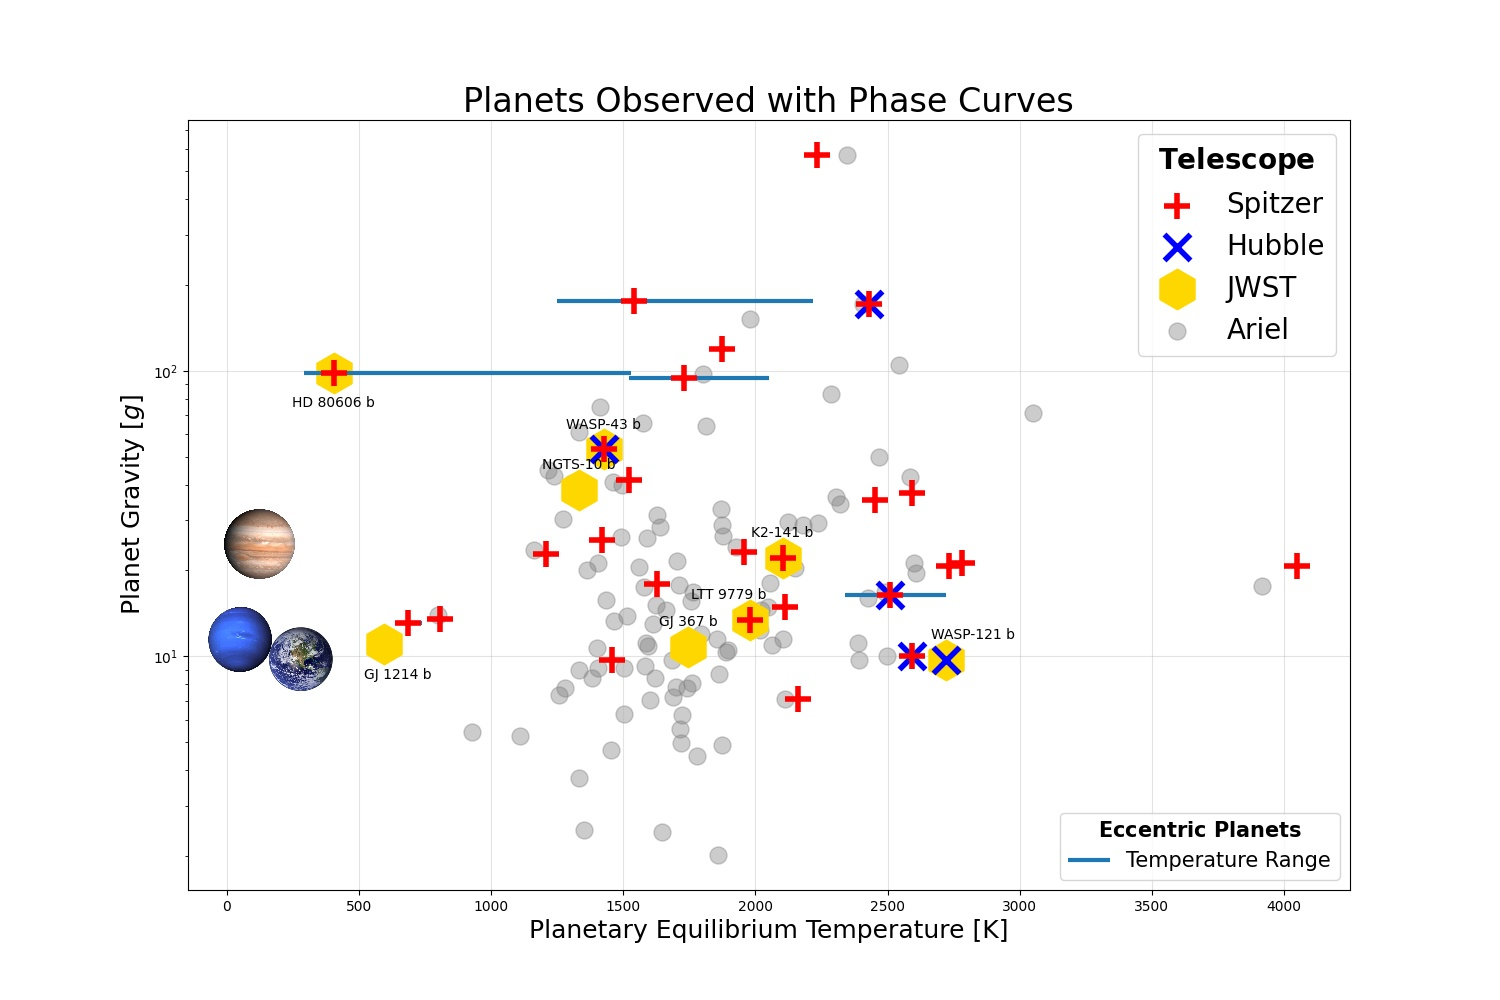
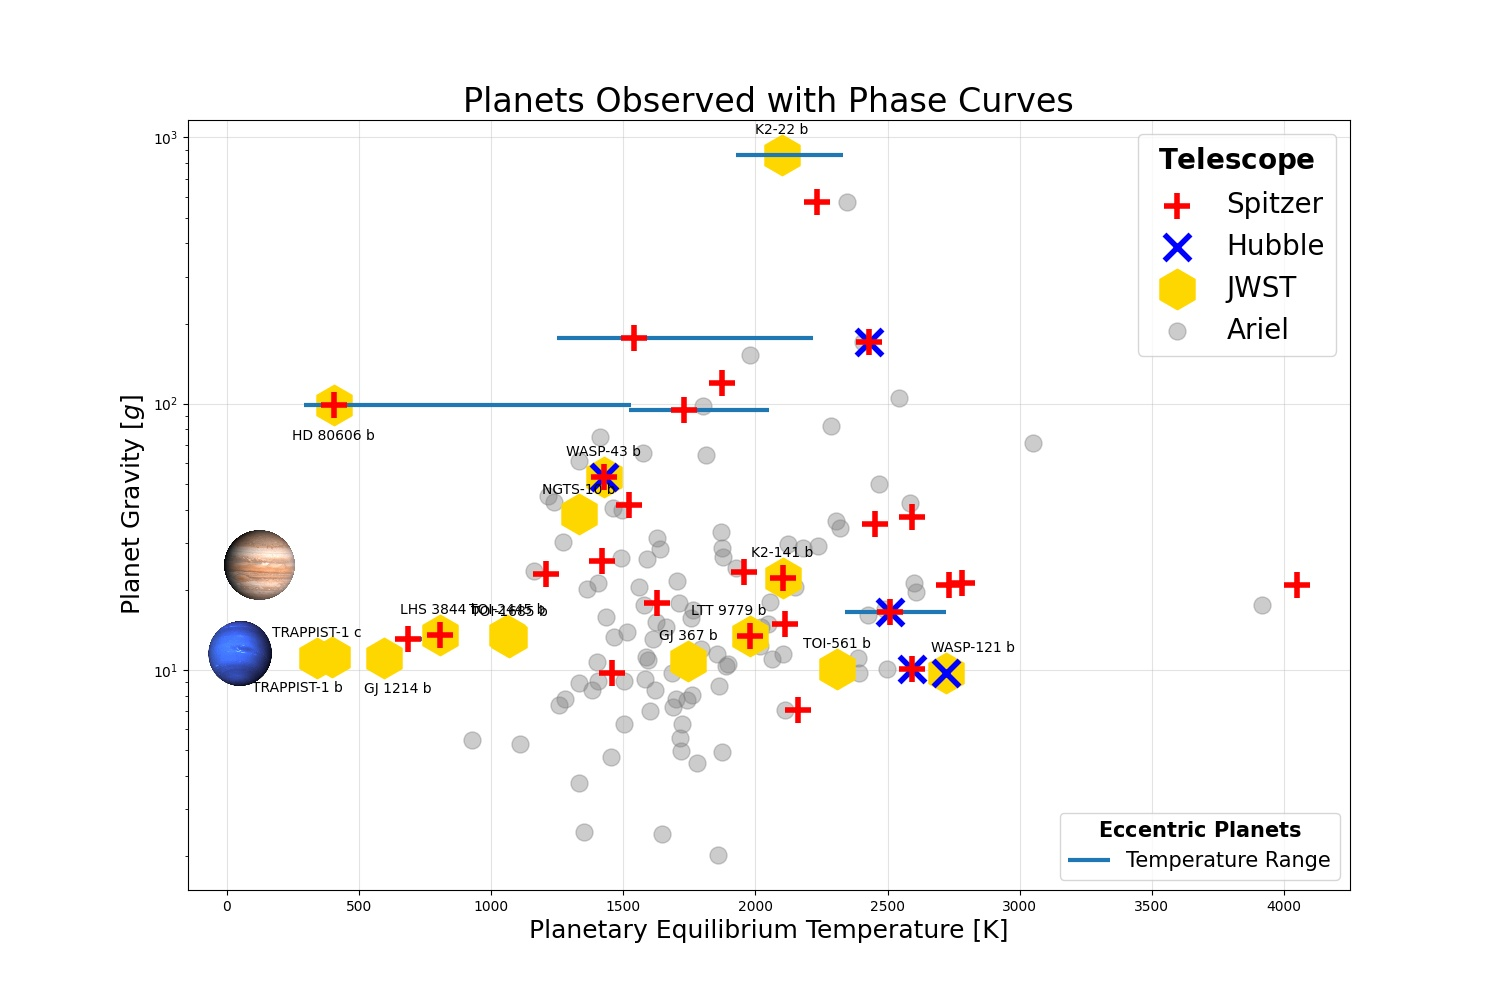
5/27 7:15

diff --git a/phasecurve_plot_cheryl.py b/phasecurve_plot_cheryl.py
@@ -26,7 +26,7 @@ pc_df = results.to_table().to_pandas()
 
 #read in csv file, this file tells us whether each object is
 #observed in any of the three telescope: Hubble,Spitzer,JWST
-telescopes = pd.read_csv(os.path.join(data_dir,'pl_telescope.csv'))
+telescopes = pd.read_csv(os.path.join(data_dir,'pl_telescope-cycle2.csv'))
 
 
 pc_telescope = pd.merge(pc_df, telescopes, how='left', left_on='pl_name', right_on='Planet_name')
@@ -47,7 +47,7 @@ ariel['ESM'] = ESM(1.1*ariel['Planet Temperature [K]'], ariel["Star Temperature 
 
 ariel['pl_g'] = (G*M_jup*ariel["Planet Mass [Mj]"])/ ((r_jup*ariel["Planet Radius [Rj]"])**2)
 
-
+############ this is day/night side constrast with Taylor's data
 selected_sample = jupiter_temp.merge(ariel, on='Planet Name',how = 'left')
 
 
@@ -63,14 +63,107 @@ selected_sample.to_csv(data_dir + 'selected_target.csv')
 
 
 ###############
-from sorting_ariel import *
+#sort according to the shortest orbit and filter out the 10%
+cut_off = 2000
+
+ariel_sort_so = ariel.sort_values('Planet Period [days]')
+cum_time = []
+cum = 0
+for index, row in ariel_sort_so.iterrows():
+    cum += row['Planet Period [days]']
+    cum_time.append(cum)
+
+ariel_sort_so['cumulative days'] = cum_time
+#ariel_sort_so = ariel_sort_so[ariel_sort_so['cumulative days'] < cut_off]
+ariel_sort_so.drop(columns=['Unnamed: 0'])
+ariel_sort_so = ariel_sort_so.reset_index(drop=True)
+ariel_sort_so.index = ariel_sort_so.index + 1
+
+
+
+#sort according to the highest ESM or maybe try with # of terrestrial bins
+ariel_sort_ESM = ariel.sort_values(by = 'ESM',ascending=False)
+cum_time = []
+cum = 0
+for index, row in ariel_sort_ESM.iterrows():
+    cum += row['Planet Period [days]']
+    cum_time.append(cum)
+
+ariel_sort_ESM['cumulative days'] = cum_time
+ariel_sort_ESM = ariel_sort_ESM[ariel_sort_ESM['cumulative days'] < cut_off]
+ariel_sort_ESM.drop(columns=['Unnamed: 0'])
+ariel_sort_ESM = ariel_sort_ESM.reset_index(drop=True)
+ariel_sort_ESM.index = ariel_sort_ESM.index + 1
+
+ariel_sort_ESM.to_csv(data_dir + 'ESM_Ariel_sort.csv')
+
+
+ariel_ESM_100 = ariel_sort_ESM.head(100)
+
+############################################3
+ariel_sort_eclipse_num = ariel.sort_values('Tier 3 Eclipses')
+cum_time = []
+cum = 0
+for index, row in ariel_sort_eclipse_num.iterrows():
+    cum += row['Planet Period [days]']
+    cum_time.append(cum)
+
+ariel_sort_eclipse_num['cumulative days'] = cum_time
+ariel_sort_eclipse_num = ariel_sort_eclipse_num[ariel_sort_eclipse_num['cumulative days'] < cut_off]
+ariel_sort_eclipse_num.drop(columns=['Unnamed: 0'])
+ariel_sort_eclipse_num = ariel_sort_eclipse_num.reset_index(drop=True)
+ariel_sort_eclipse_num.index = ariel_sort_eclipse_num.index + 1
+
+ariel_sort_eclipse_num.to_csv(data_dir + 'Eclipse_Cum.csv')
+
+print('eclipse len',len(ariel_sort_eclipse_num))
+
+
+ariel_eclipse_100 = ariel_sort_eclipse_num.head(100)
+
+######################## rank everything based on tier 3 transits
+
+ariel_sort_transit_num = ariel.sort_values('Tier 3 Transits')
+ariel_transit_100 = ariel_sort_transit_num.head(100)
+
+######### sort out targets with
+overlap_target = pd.merge(ariel_transit_100, ariel_eclipse_100, how = "inner")
+
+
+cum_time = []
+cum = 0
+for index, row in overlap_target.iterrows():
+    cum += row['Transit Duration [s]']
+    cum_time.append(cum)
+
+overlap_target['cumulative transit time [days]'] = cum_time
+overlap_target['cumulative transit time [days]'] = overlap_target['cumulative transit time [days]']/ 86400 * 3 # we account
+#for the based line by multiplying 3
+overlap_target.drop(columns=['Unnamed: 0'])
+overlap_target = overlap_target.reset_index(drop = True)
+overlap_target.index = overlap_target.index + 1
+
+overlap_target_selected = overlap_target[["Planet Name","Tier 3 Eclipses","Tier 3 Transits",
+                                           "Planet Period [days]", "Transit Duration [s]", 'cumulative transit time [days]' ]]
+overlap_target_selected.to_csv(data_dir + 'overlap.csv')
+
+################ sort ariel into different mass range:
+ariel_terrestrial = ariel.loc[ariel['Planet Mass [Mj]'] <= 0.16058]
+ariel_subnep = ariel.loc[(ariel['Planet Mass [Mj]'] >= 0.16058)
+                & (ariel['Planet Mass [Mj]'] <= 0.312251)]
+ariel_nep = ariel.loc[(ariel['Planet Mass [Mj]'] <= 0.624503)
+                & (ariel['Planet Mass [Mj]'] >= 0.312251)]
+ariel_giant = ariel.loc[ariel['Planet Mass [Mj]'] >= 0.624503]
+
+
+
 
 ####################### plotting
 
-#from JWST_Phasecurve_Graph import *
-#from JWST_Phase_Curve_pg import *
-#from JWST_Phasecurve_prj import *
-#from JWST_Ariel_Phasecurve_PG_Ecc import *
+from JWST_Phasecurve_Graph import *
+from JWST_Phase_Curve_pg import *
+from JWST_Phasecurve_prj import *
+from JWST_Ariel_Phasecurve_PG_Ecc import *
 #from JWST_Ariel_Fig3_PR_PP_PT import *
 #from JWST_Ariel_ESM_Period_T import *
 
@@ -82,7 +175,7 @@ from sorting_ariel import *
 #from Ariel_Teq_Rp import *
 #from Ariel_Teq_period import *
 #from Ariel_ESM_Planet_Rank import *
-from Ariel_num_eclipse_rank import *
+#from Ariel_num_eclipse_rank import *
 #from Ariel_ESM_diff import *
 
 

diff --git a/JWST_Phasecurve_prj.py b/JWST_Phasecurve_prj.py
@@ -41,12 +41,40 @@ for x, y, name in zip(pc_telescope.query("JWST == 'Yes'")["pl_eqt"], pc_telescop
                       pc_telescope.query("JWST == 'Yes'")["pl_name"]):
 
     label = name
-    if label == 'K2-141 b':
+
+    if label == 'WASP-121 b':
         plt.annotate(label,  # this is the text
                      (x, y),  # these are the coordinates to position the label
                      textcoords="offset points",  # how to position the text
-                     xytext=(15, 15),  # distance from text to points (x,y)
+                     xytext=(20, 15),  # distance from text to points (x,y)
                      ha='center')  # horizontal alignment can be left, right or center
+    elif label == 'GJ 1214 b':
+        plt.annotate(label,  # this is the text
+                     (x, y),  # these are the coordinates to position the label
+                     textcoords="offset points",  # how to position the text
+                     xytext=(10, -25),  # distance from text to points (x,y)
+                     ha='center')  # horizontal alignment can be left, right or center
+
+    elif label == 'LTT 9779 b':
+        plt.annotate(label,  # this is the text
+                     (x, y),  # these are the coordinates to position the label
+                     textcoords="offset points",  # how to position the text
+                     xytext=(-15, 15),  # distance from text to points (x,y)
+                     ha='center')  # horizontal alignment can be left, right or center
+
+    elif label == 'HD 80606 b':
+        plt.annotate(label,  # this is the text
+                     (x, y),  # these are the coordinates to position the label
+                     textcoords="offset points",  # how to position the text
+                     xytext=(0, -25),  # distance from text to points (x,y)
+                     ha='center')  # horizontal alignment can be left, right or center
+    elif label == "TRAPPIST-1 b":
+        plt.annotate(label,  # this is the text
+                     (x, y),  # these are the coordinates to position the label
+                     textcoords="offset points",  # how to position the text
+                     xytext=(0, -25),  # distance from text to points (x,y)
+                     ha='center')  # horizontal alignment can be left, right or center
+
 
     else:
         plt.annotate(label,  # this is the text
@@ -54,6 +82,8 @@ for x, y, name in zip(pc_telescope.query("JWST == 'Yes'")["pl_eqt"], pc_telescop
                      textcoords="offset points",  # how to position the text
                      xytext=(0, 15),  # distance from text to points (x,y)
                      ha='center')  # horizontal alignment can be left, right or center
+
+
 '''
 ## Label HD 189
 for x, y, name in zip(pc_telescope.query("pl_name == 'HD 189733 b'")["pl_eqt"],
@@ -79,17 +109,16 @@ def getImage(path, zoom):
 
 
 paths = [
-    'Earth.png',
     'Jupiter.png',
     'neptune.jpg']
 
-zooms = [0.025, 0.065, 0.15]
+zooms = [0.065, 0.15]
 
-SS_eqt = [279,  # Earth
+SS_eqt = [
           122,  # Jupiter
           51]  # Neptune
 
-SS_radj = [1 / 11.2,  # Earth
+SS_radj = [
            1,  # Jupiter
            1 / 2.88]  # Neptune
 

diff --git a/JWST_Phasecurve_Graph.py b/JWST_Phasecurve_Graph.py
@@ -41,7 +41,7 @@ pc_telescope['T_min'] = pc_telescope['pl_eqt'] / np.sqrt(1 + pc_telescope['pl_or
 
 # eccen_plot = ax.hlines('pl_g', 'T_min', 'T_max', data = pc_telescope.query("pl_orbeccen > 0.09"), lw=3, label = 'Temperature Range')
 
-
+'''
 for x, y, name in zip(pc_telescope.query("JWST == 'Yes'")["pl_eqt"], pc_telescope.query("JWST == 'Yes'")["ESM"],
                       pc_telescope.query("JWST == 'Yes'")["pl_name"]):
 
@@ -80,6 +80,12 @@ for x, y, name in zip(pc_telescope.query("JWST == 'Yes'")["pl_eqt"], pc_telescop
                      textcoords="offset points",  # how to position the text
                      xytext=(0, -25),  # distance from text to points (x,y)
                      ha='center')  # horizontal alignment can be left, right or center
+    elif label == "TRAPPIST-1 b":
+        plt.annotate(label,  # this is the text
+                     (x, y),  # these are the coordinates to position the label
+                     textcoords="offset points",  # how to position the text
+                     xytext=(0, -25),  # distance from text to points (x,y)
+                     ha='center')  # horizontal alignment can be left, right or center
 
     else:
         plt.annotate(label,  # this is the text
@@ -87,6 +93,7 @@ for x, y, name in zip(pc_telescope.query("JWST == 'Yes'")["pl_eqt"], pc_telescop
                      textcoords="offset points",  # how to position the text
                      xytext=(0, -25),  # distance from text to points (x,y)
                      ha='center')  # horizontal alignment can be left, right or center
+'''
 
 from matplotlib.lines import Line2D
 

diff --git a/JWST_Phase_Curve_pg.py b/JWST_Phase_Curve_pg.py
@@ -67,6 +67,12 @@ for x, y, name in zip(pc_telescope.query("JWST == 'Yes'")["pl_eqt"], pc_telescop
                      textcoords="offset points",  # how to position the text
                      xytext=(0, -25),  # distance from text to points (x,y)
                      ha='center')  # horizontal alignment can be left, right or center
+    elif label == "TRAPPIST-1 b":
+        plt.annotate(label,  # this is the text
+                     (x, y),  # these are the coordinates to position the label
+                     textcoords="offset points",  # how to position the text
+                     xytext=(-20, -25),  # distance from text to points (x,y)
+                     ha='center')  # horizontal alignment can be left, right or center
 
     else:
         plt.annotate(label,  # this is the text
@@ -98,16 +104,15 @@ def getImage(path, zoom):
 
 
 paths = [
-    'Earth.png',
     'Jupiter.png',
     'neptune.jpg']
 
-zooms = [0.025, 0.065, 0.15]
-SS_eqt = [279,  # Earth
+zooms = [ 0.065, 0.15]
+SS_eqt = [ # Earth
           122,  # Jupiter
           51]  # Neptune
 
-SS_g = [9.8,  # Earth
+SS_g = [ # Earth
         24.8,  # Jupiter
         11.5]  # Neptune
 

diff --git a/JWST_Ariel_Phasecurve_PG_Ecc.py b/JWST_Ariel_Phasecurve_PG_Ecc.py
@@ -54,6 +54,12 @@ for x, y, name in zip(pc_telescope.query("JWST == 'Yes'")["pl_eqt"], pc_telescop
                      textcoords="offset points",  # how to position the text
                      xytext=(0, -25),  # distance from text to points (x,y)
                      ha='center')  # horizontal alignment can be left, right or center
+    elif label == "TRAPPIST-1 b":
+        plt.annotate(label,  # this is the text
+                     (x, y),  # these are the coordinates to position the label
+                     textcoords="offset points",  # how to position the text
+                     xytext=(-25, -25),  # distance from text to points (x,y)
+                     ha='center')  # horizontal alignment can be left, right or center
 
     else:
         plt.annotate(label,  # this is the text
@@ -86,13 +92,17 @@ def getImage(path, zoom):
 
 
 paths = [
-    'Earth.png',
     'Jupiter.png',
     'neptune.jpg']
 
-zooms = [0.025, 0.065, 0.15]
+zooms = [ 0.065, 0.15]
 
-SS_g = [9.8,  # Earth
+
+SS_eqt = [
+          122,  # Jupiter
+          51]  # Neptune
+
+SS_g = [
         24.8,  # Jupiter
         11.5]  # Neptune
 

diff --git a/table_columns_name.py b/table_columns_name.py
@@ -88,7 +88,13 @@ planetname = (
     "K2-141 b",
     "GJ 1214 b",
     "NGTS-10 b",
-    "GJ 367 b"
+    "GJ 367 b",
+    "TOI-561 b",
+    "TRAPPIST-1 b",
+    "TRAPPIST-1 c",
+    "TOI-1685 b",
+    "K2-22 b",
+    "TOI-2445 b"
     #"TOI-193", # add in a JWST target
 )
 
